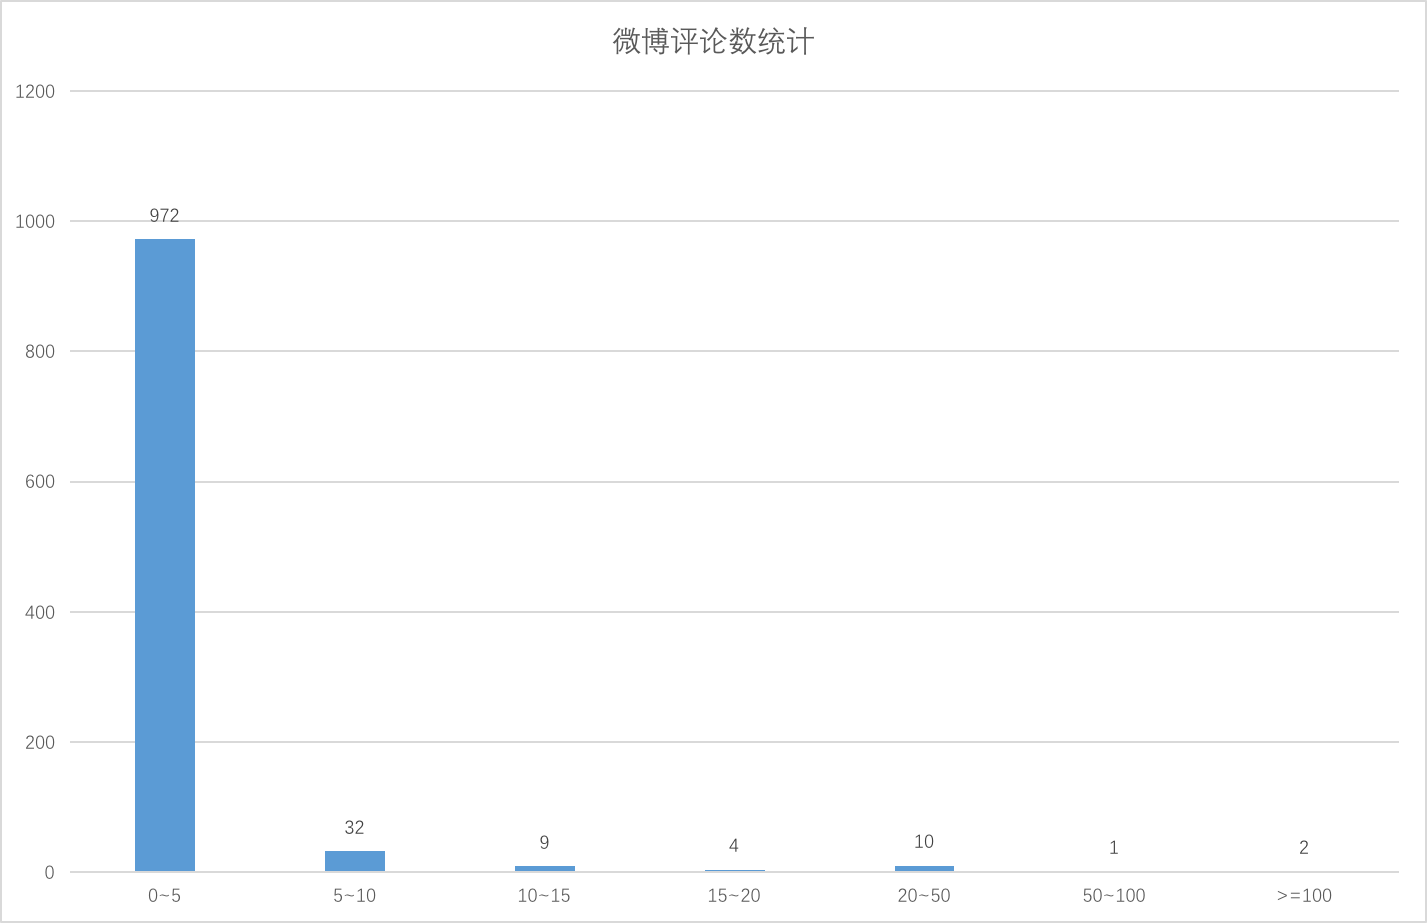
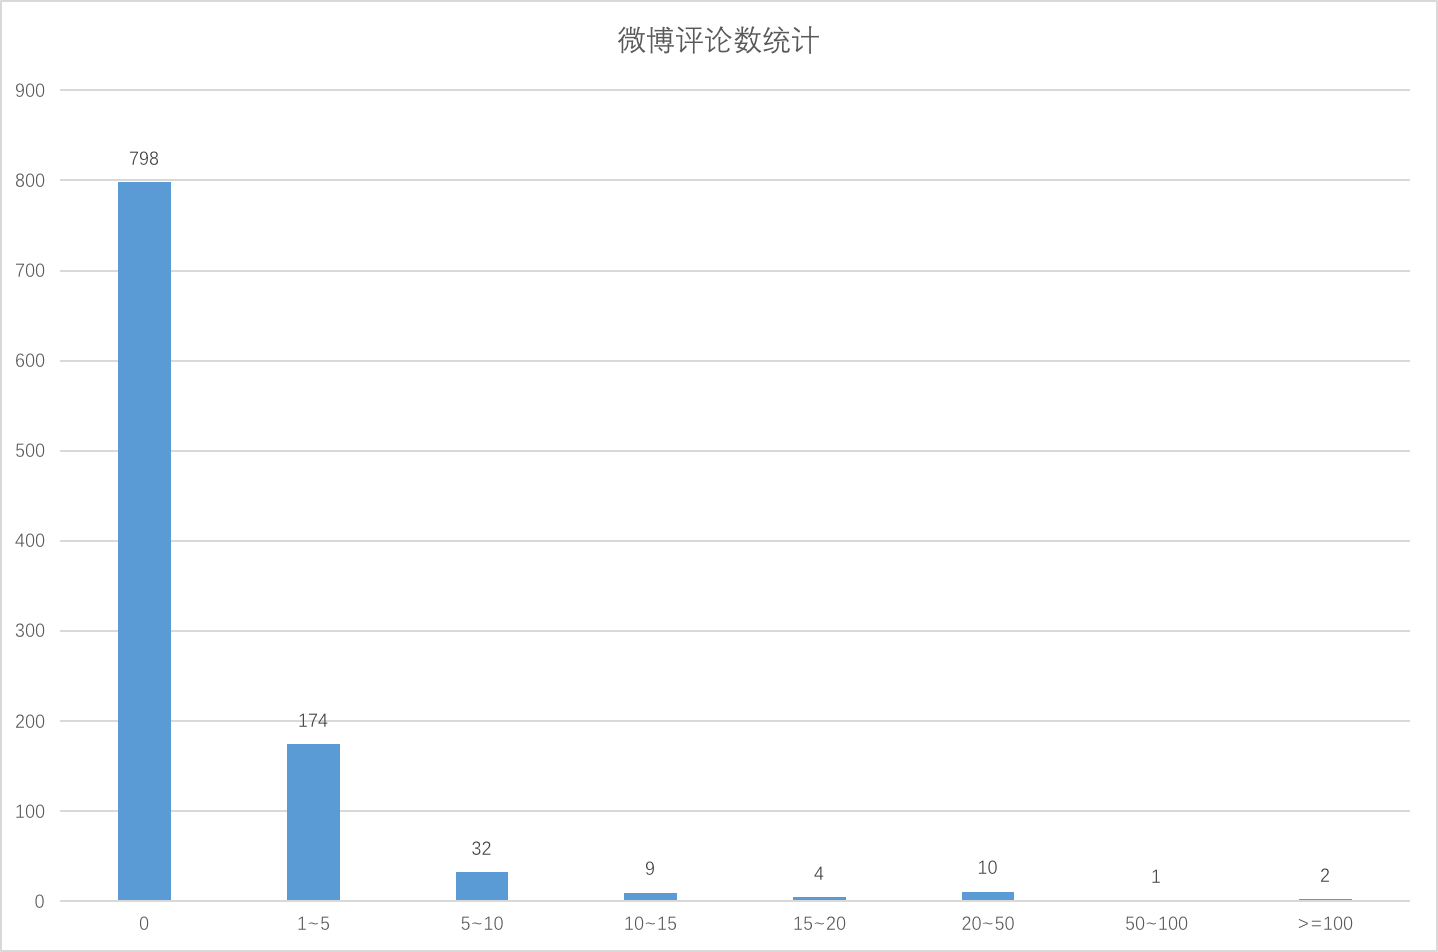
单拎出0

diff --git a/getPosts.py b/getPosts.py
@@ -11,9 +11,9 @@ else:
     exit()
 
 count = {
-	'repost_num': {'0~5': 0, '5~10': 0, '10~15': 0, '15~20': 0, '20~50': 0, '50~100': 0, '>=100': 0},
-	'comment_num': {'0~5': 0, '5~10': 0, '10~15': 0, '15~20': 0, '20~50': 0, '50~100': 0, '>=100': 0},
-	'like_num': {'0~5': 0, '5~10': 0, '10~15': 0, '15~20': 0, '20~50': 0, '50~100': 0, '>=100': 0},
+	'repost_num': {'0': 0, '1~5': 0, '5~10': 0, '10~15': 0, '15~20': 0, '20~50': 0, '50~100': 0, '>=100': 0},
+	'comment_num': {'0': 0, '1~5': 0, '5~10': 0, '10~15': 0, '15~20': 0, '20~50': 0, '50~100': 0, '>=100': 0},
+	'like_num': {'0': 0, '1~5': 0, '5~10': 0, '10~15': 0, '15~20': 0, '20~50': 0, '50~100': 0, '>=100': 0},
 	'day': {},
 	'hour': {}
 }
@@ -29,8 +29,10 @@ for i in data['topic_posts']:
 	ln = post.like_num
 	t  = str(post.created_at)
 
-	if 0 <= rn < 5:
-		count['repost_num']['0~5'] += 1
+	if rn == 0:
+		count['repost_num']['0'] += 1
+	elif 1 <= rn < 5:
+		count['repost_num']['1~5'] += 1
 	elif 5 <= rn < 10:
 		count['repost_num']['5~10'] += 1
 	elif 10 <= rn < 15:
@@ -44,8 +46,10 @@ for i in data['topic_posts']:
 	else:
 		count['repost_num']['>=100'] += 1
 
-	if 0 <= cn < 5:
-		count['comment_num']['0~5'] += 1
+	if cn == 0:
+		count['comment_num']['0'] += 1
+	elif 1 <= cn < 5:
+		count['comment_num']['1~5'] += 1
 	elif 5 <= cn < 10:
 		count['comment_num']['5~10'] += 1
 	elif 10 <= cn < 15:
@@ -59,8 +63,10 @@ for i in data['topic_posts']:
 	else:
 		count['comment_num']['>=100'] += 1
 
-	if 0 <= ln < 5:
-		count['like_num']['0~5'] += 1
+	if ln == 0:
+		count['like_num']['0'] += 1
+	elif 0 <= ln < 5:
+		count['like_num']['1~5'] += 1
 	elif 5 <= ln < 10:
 		count['like_num']['5~10'] += 1
 	elif 10 <= ln < 15:
